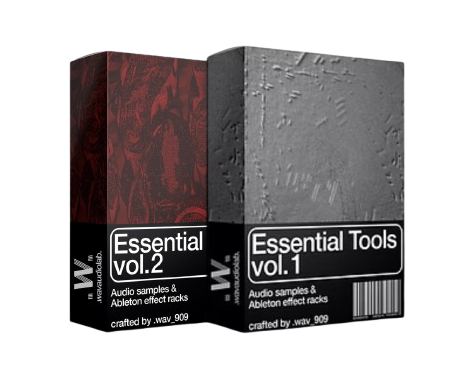
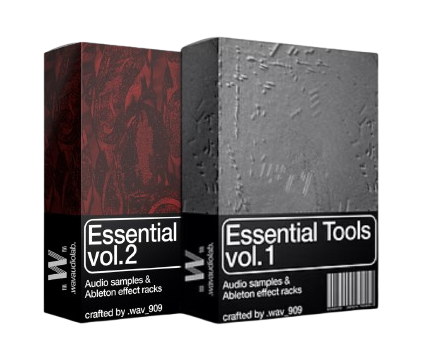
Real fix for both issues: Vol.2 was being centered on box+shadow combined, but the shadow extends much further left than right in the source photo, which pushed the box itself off-center — now centers on the box alone and lets the shadow extend naturally. Bundle: replaced the fixed 5:4 aspect hack (

Changed region(s): [[0.0924, 0.0914, 0.9242, 0.9141], [0.6469, 0.4571, 0.7393, 0.5485], [0.6777, 0.3047, 0.7085, 0.3352]]

diff --git a/components/product-grid.tsx b/components/product-grid.tsx
@@ -10,7 +10,12 @@ export interface Product {
   tag: string;
   tagColor?: "signal" | "amber";
   image?: string; // path in /public, e.g. "/packs/essential-tools-vol2.png"
-  imageAspect?: string; // CSS aspect-ratio, e.g. "5/4" — for shots wider than a single-box portrait (default "4/5")
+  // Set true for shots wider than a single-box portrait (e.g. a two-box
+  // bundle) — instead of a fixed short aspect ratio (which made the card
+  // itself shorter than its neighbors), the image area fills whatever
+  // height the grid row actually establishes, so it matches every other
+  // card's height exactly instead of guessing at a ratio.
+  wideImage?: boolean;
 }
 
 function ProductCard({ product }: { product: Product }) {
@@ -19,13 +24,16 @@ function ProductCard({ product }: { product: Product }) {
 
   return (
     <div
-      className="group relative flex flex-col overflow-hidden rounded-2xl border border-white/8 bg-white/[0.03] transition-colors duration-300 hover:border-white/16"
+      className="group relative flex h-full flex-col overflow-hidden rounded-2xl border border-white/8 bg-white/[0.03] transition-colors duration-300 hover:border-white/16"
       onMouseEnter={() => setHovered(true)}
       onMouseLeave={() => setHovered(false)}
     >
       <div
-        className="relative w-full overflow-hidden bg-panel-2"
-        style={{ aspectRatio: product.imageAspect ?? "4/5" }}
+        className={
+          product.wideImage
+            ? "relative min-h-[160px] w-full flex-1 overflow-hidden bg-panel-2"
+            : "relative aspect-[4/5] w-full flex-none overflow-hidden bg-panel-2"
+        }
       >
         {product.image ? (
           <>
@@ -53,14 +61,14 @@ function ProductCard({ product }: { product: Product }) {
           </div>
         )}
       </div>
-      <div className="flex flex-1 flex-col p-5">
+      <div className="flex flex-none flex-col p-5">
         <div className={`mb-2 font-mono text-[10.5px] tracking-[0.08em] ${tagColor}`}>
           {product.tag}
         </div>
         <h3 className="mb-1.5 font-display text-[22px] font-bold leading-[1.05]">
           {product.title}
         </h3>
-        <p className="mb-4 flex-1 text-[13px] text-muted">{product.description}</p>
+        <p className="mb-4 text-[13px] text-muted">{product.description}</p>
         <div className="flex items-baseline justify-between border-t border-line pt-4 font-mono">
           <span className="text-[17px] text-text">{product.price}</span>
           <span className={`text-[12px] transition-transform ${hovered ? "translate-x-1" : ""} text-signal`}>
@@ -74,7 +82,7 @@ function ProductCard({ product }: { product: Product }) {
 
 export default function ProductGrid({ products }: { products: Product[] }) {
   return (
-    <div className="grid grid-cols-2 items-start gap-4 md:grid-cols-4">
+    <div className="grid grid-cols-2 items-stretch gap-4 md:grid-cols-4">
       {products.map((p) => (
         <ProductCard key={p.title} product={p} />
       ))}

diff --git a/app/page.tsx b/app/page.tsx
@@ -33,7 +33,7 @@ const packs: Product[] = [
     tag: "25% OFF BUNDLED",
     tagColor: "amber",
     image: "/packs/bundle.png",
-    imageAspect: "5/4",
+    wideImage: true,
   },
   {
     title: "Racks Bundle",
